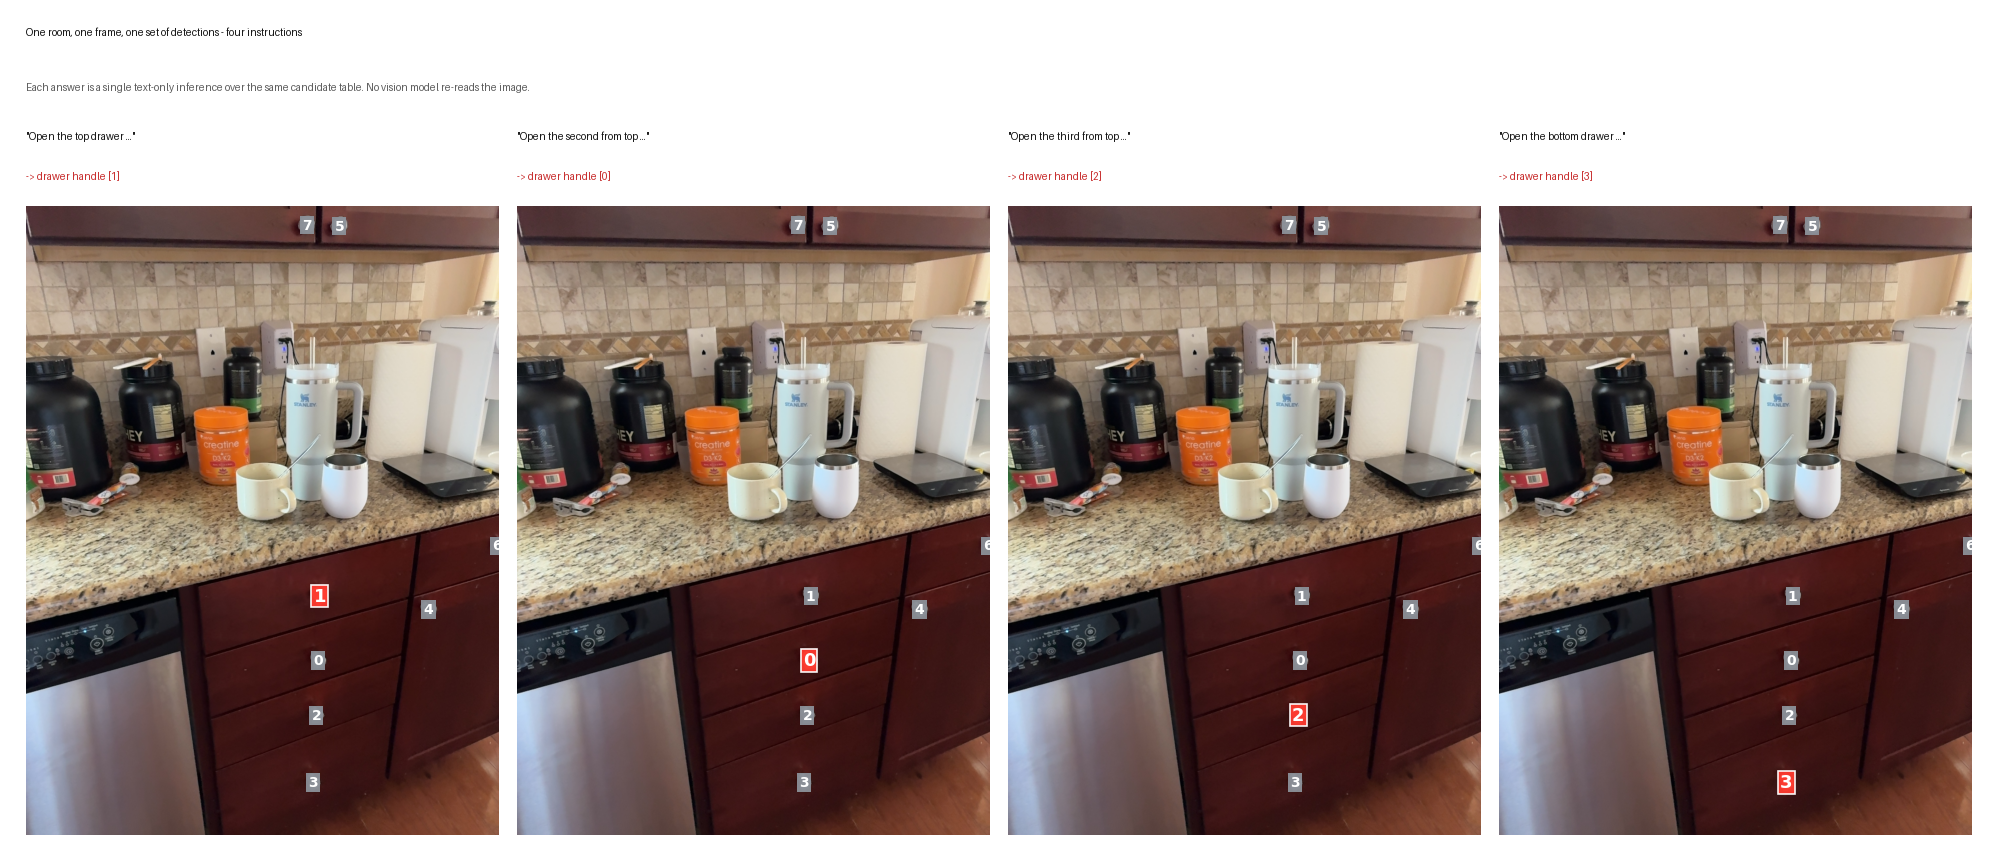
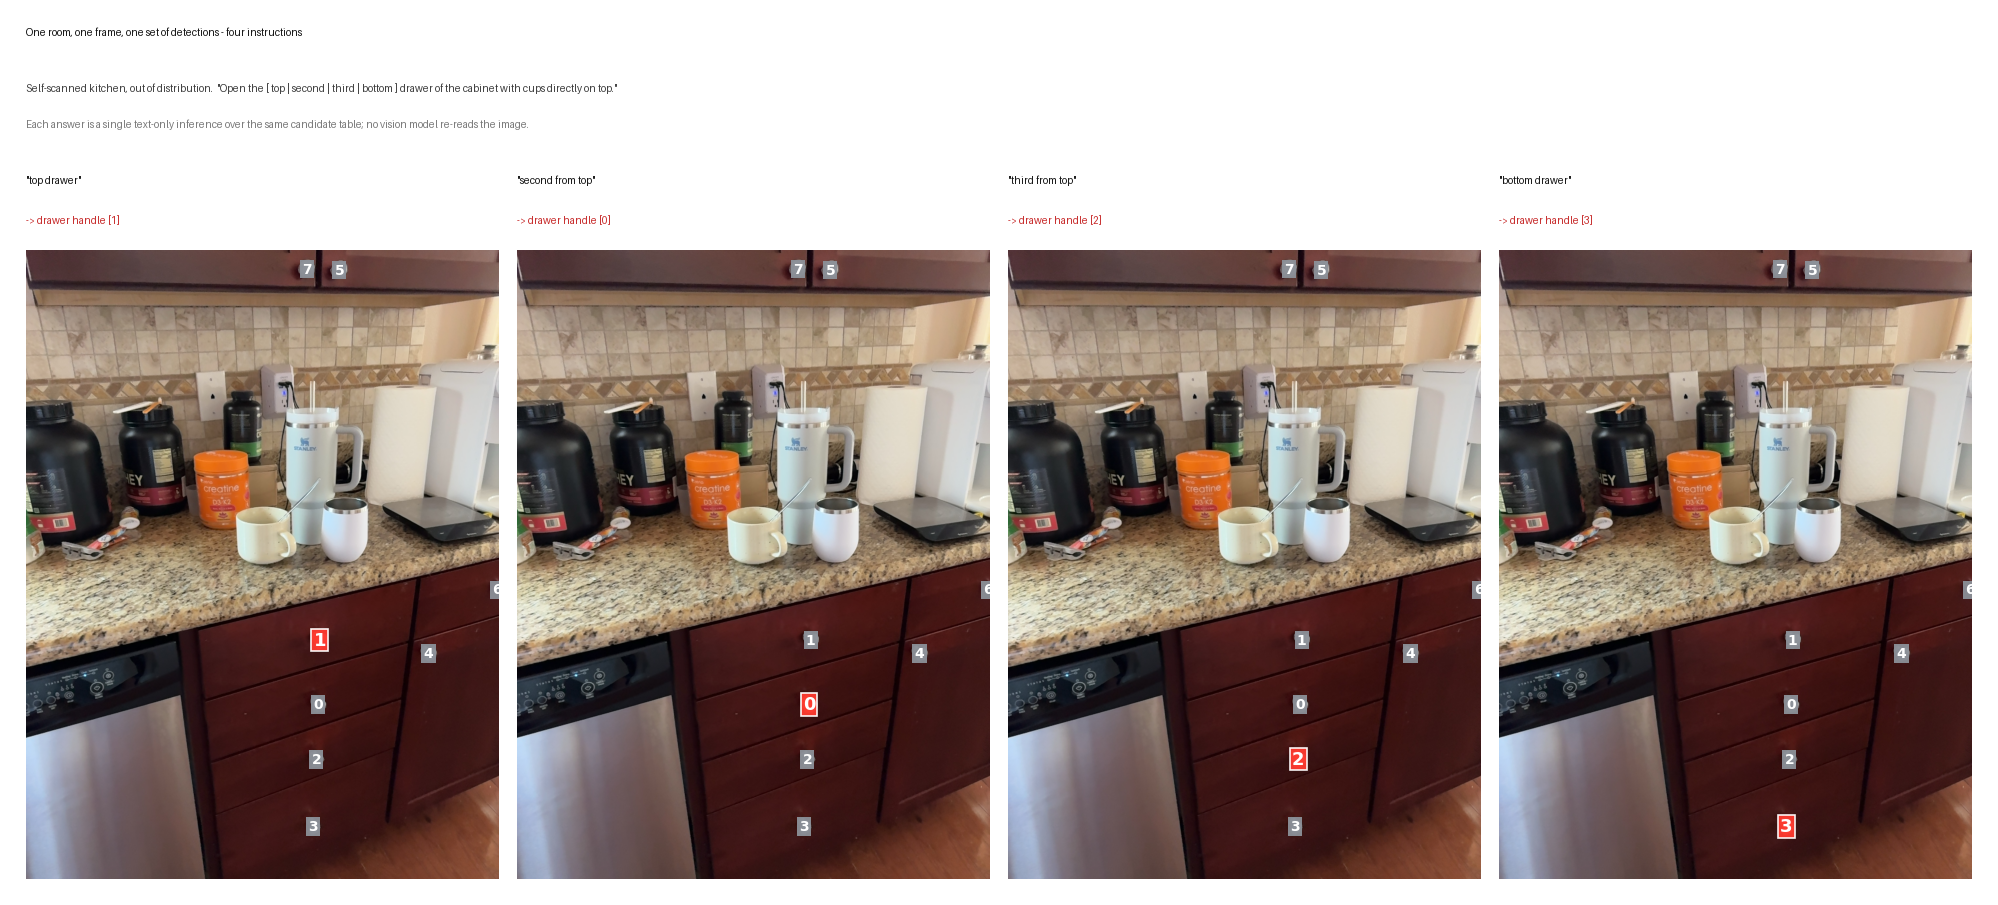
fix typos

diff --git a/index.html b/index.html
@@ -87,14 +87,6 @@
     and disambiguation becomes <b>a single inference that never sees an image</b>.
   </div>
 
-  <figure class="shot">
-    <img src="demo_ood/four_instructions_one_frame.png"
-         alt="One self-scanned kitchen frame repeated four times; each of four instructions selects a different drawer handle, boxed in red">
-    <figcaption><b>A self-scanned kitchen, fully out of distribution.</b> The four instructions share one frame and one
-      set of detections &mdash; only the parsed ordering constraint differs, and the selected ids (1 / 0 / 2 / 3) are not
-      in spatial order. Reasoning chain for each in <code>demo_ood/</code>.</figcaption>
-  </figure>
-
   <div class="tip">
     <div class="h">What this project claims &mdash; and what it does not</div>
     The claim is <b>a structurally cheaper pipeline plus two diagnoses the literature had not stated clearly</b>,
@@ -136,6 +128,16 @@
     Fifty 7B-VLM image reads become one text inference, and the vision side reduces to a single 860 M open-vocabulary segmenter.
     <b>The side effect is worth more than the main effect: detections are cached by (scene, concept), so asking a room ten questions costs almost what asking it one does.</b></div>
   </div>
+
+  <figure class="shot">
+    <img src="demo_ood/four_instructions_one_frame.png"
+         alt="One self-scanned kitchen frame repeated four times; each of four instructions selects a different drawer handle, boxed in red">
+    <figcaption><b>The cache, in one picture &mdash; a different scene from the example at the top of this page.</b>
+      A kitchen scanned with a phone, fully out of distribution: <i>"open the top / second / third / bottom drawer of the
+      cabinet with cups directly on top"</i>. The four instructions share one frame and one set of detections; only the
+      parsed ordering constraint differs, and the selected ids (1 / 0 / 2 / 3) are not in spatial order.
+      Reasoning chain for each in <code>demo_ood/</code>.</figcaption>
+  </figure>
 
   <div class="stages">
     <div class="stage"><div class="n">Pillar 1 &middot; method</div><div class="st">The symbolic bottleneck</div><div class="sd">One frame &rarr; candidate table &rarr; <b>one text-only inference</b>. Vision side <b>860 M vs 8.8 G</b>, <b>28.4 s vs 273 s</b> (same machine, 9.6&times;); <b>more instructions do not mean more vision compute</b> &mdash; the demo's 13 instructions share 1276 segmentation calls where per-instruction re-running needs 2639.</div></div>

diff --git a/code/demo/task2_banner.py b/code/demo/task2_banner.py
@@ -22,7 +22,9 @@ from paths import DEMO_TASK2  # noqa: E402
 SCAN = "Drawer_Cups"
 QS = [("q01", "top drawer"), ("q02", "second from top"),
       ("q03", "third from top"), ("q04", "bottom drawer")]
-PAD, GAP, CAP, HEAD = 26, 18, 76, 104
+SHARED = ("Self-scanned kitchen, out of distribution.  "
+          '"Open the [ top | second | third | bottom ] drawer of the cabinet with cups directly on top."')
+PAD, GAP, CAP, HEAD = 26, 18, 76, 148
 
 
 def font(size, bold=False):
@@ -85,18 +87,19 @@ def main():
     out = Image.new("RGB", (W, H), "white")
     dr = ImageDraw.Draw(out)
 
-    f_head, f_sub, f_cap, f_pick = font(42, True), font(26), font(30, True), font(28, True)
+    f_head, f_sub, f_cap, f_pick = font(42, True), font(25), font(30, True), font(28, True)
     dr.text((PAD, PAD), "One room, one frame, one set of detections - four instructions",
             font=f_head, fill=(17, 17, 17))
-    dr.text((PAD, PAD + 55),
-            "Each answer is a single text-only inference over the same candidate table. "
-            "No vision model re-reads the image.",
-            font=f_sub, fill=(90, 90, 90))
+    dr.text((PAD, PAD + 56), SHARED, font=f_sub, fill=(60, 60, 60))
+    dr.text((PAD, PAD + 92),
+            "Each answer is a single text-only inference over the same candidate table; "
+            "no vision model re-reads the image.",
+            font=f_sub, fill=(120, 120, 120))
 
     for i, (p, (qid, phrase)) in enumerate(zip(panels, QS)):
         x = PAD + i * (w + GAP)
         y = PAD + HEAD
-        dr.text((x, y), f'"Open the {phrase} ..."', font=f_cap, fill=(17, 17, 17))
+        dr.text((x, y), f'"{phrase}"', font=f_cap, fill=(17, 17, 17))
         dr.text((x, y + 40), f"-> drawer handle {picks[i]}", font=f_pick, fill=(198, 40, 40))
         out.paste(p, (x, y + CAP))
 

diff --git a/README.md b/README.md
@@ -5,13 +5,6 @@
 > *"Open the top left drawer of the cabinet located to the left of the TV."*
 > → a 3D mask of **that specific handle**, out of four identical ones on the same cabinet.
 
-![One frame, four instructions, four handles](demo_ood/four_instructions_one_frame.png)
-
-*A self-scanned kitchen, fully out of distribution. The four instructions share one frame and
-one set of detections — only the parsed ordering constraint differs, and the selected ids
-(1 / 0 / 2 / 3) are not in spatial order. Full reasoning chain for each in*
-[`demo_ood/`](demo_ood/).
-
 Independent research project, single GPU. Benchmark: **SceneFun3D**
 (30 rooms / 445 instructions, val split0).
 
@@ -37,7 +30,15 @@ All 442 val instructions. Timings measured on the same machine. **AP25 is worse 
 
 The structural property matters more than the score: **perception is cached by
 (scene, concept), not by instruction**, so asking a room ten questions costs almost the same
-vision compute as asking it one.
+vision compute as asking it one. That is what the figure below shows — a *different* scene
+from the example above, scanned with a phone and fully out of distribution:
+
+![Four instructions on one kitchen frame, each selecting a different drawer handle](demo_ood/four_instructions_one_frame.png)
+
+*"Open the **top** / **second** / **third** / **bottom** drawer of the cabinet with cups
+directly on top" — four instructions, one frame, one set of detections. Only the parsed
+ordering constraint differs, and the selected ids (1 / 0 / 2 / 3) are not in spatial order.
+Reasoning chain for each in* [`demo_ood/`](demo_ood/).
 
 ---
 
